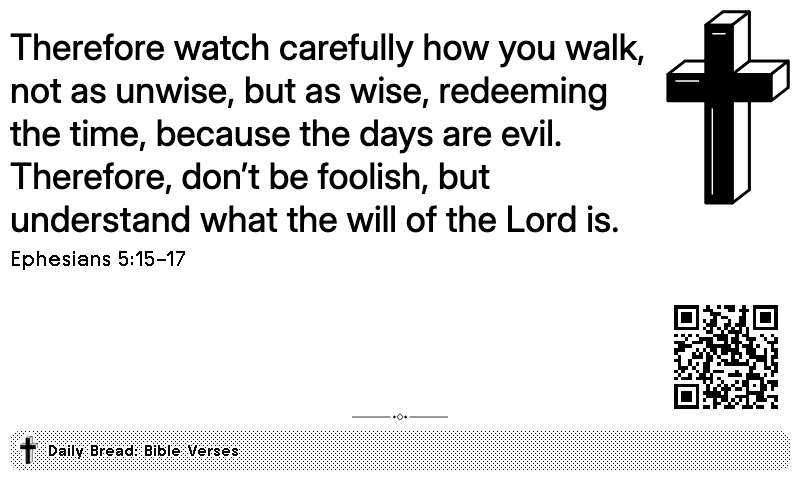
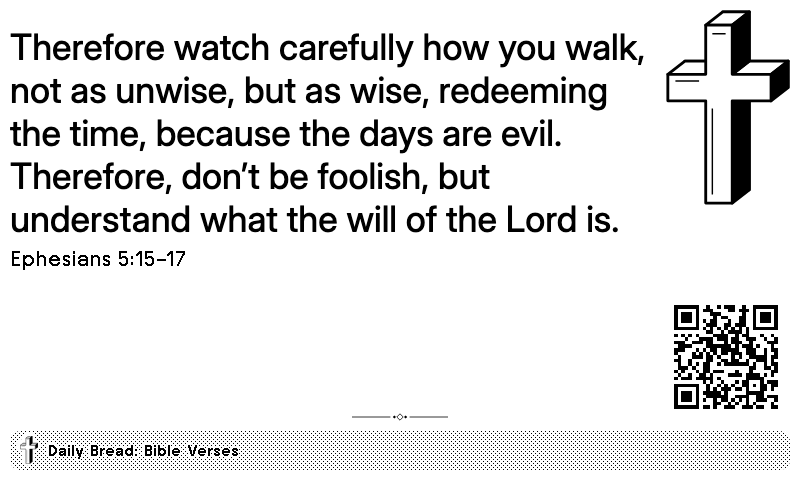
Anchor the Daily Bread QR bottom-right and add dark screenshots
Light keeps the original cross: a white front with black sides. Dark
keeps the white front with outlined black sides. The listing icon
returns to the original artwork.

Half horizontal and quadrant views now pin the chapter QR to the
bottom-right corner, as in the full view. Scripture wraps around it
with a measured, cleared float reservation, capped to the fit budget so
it never shrinks the passage. A reference that would meet the QR moves
into the title bar. This adds one scoped clear rule to the declared
style block; AGENTS.md and the README describe the three-rule exception.

In mashup views the cross and QR now anchor to the content box inside
the layout padding, so they align with the text edge instead of
touching the panel border.

Screenshot entries can set plugin fields. The README adds Dark
appearance captures for all four layouts.

Changed region(s): [[0.8125, 0.0312, 1.0, 0.4375], [0.0312, 0.9062, 0.0625, 0.9688]]

diff --git a/packages/plugin-tools/src/screenshots.js b/packages/plugin-tools/src/screenshots.js
@@ -6,7 +6,8 @@ import { passageSchedule, reviewManifest, reviewScreens } from './review.js';
 // Documentation and listing images are declared in docs/screenshots.json, so
 // a layout change is followed by one regeneration rather than manual captures:
 // [{ "file": "full.png", "passage": "mat-11-28-30", "language": "en",
-//    "screen": "og-landscape-full", "qr": true }]
+//    "screen": "og-landscape-full", "qr": true, "fields": { "appearance": "dark" } }]
+// Optional fields set any other plugin setting for that capture.
 export async function writeScreenshots(plugin) {
   const entries = JSON.parse(await readFile(join(plugin.root, 'docs/screenshots.json'), 'utf8'));
   const screens = new Map(reviewScreens().map(screen => [screen.id, screen]));
@@ -19,7 +20,7 @@ export async function writeScreenshots(plugin) {
     await Promise.all(entries.map(async entry => {
       const screen = screens.get(entry.screen);
       if (!screen) throw new Error(`${entry.file}: unknown screen ${entry.screen}.`);
-      const fields = { ...plugin.defaults, language: entry.language, theme: 'all', rotation: 'daily', show_context_qr: entry.qr ?? true };
+      const fields = { ...plugin.defaults, language: entry.language, theme: 'all', rotation: 'daily', show_context_qr: entry.qr ?? true, ...entry.fields };
       const { options, expected } = passageSchedule(plugin, fields, entry.passage, plugin.data);
       if (expected?.id !== entry.passage) throw new Error(`${entry.file}: passage ${entry.passage} is not in the ${entry.language} collection.`);
       const scenario = { id: `screenshot-${entry.file.replace(/\W+/g, '-')}`, options, expected, recovery: false };

diff --git a/apps/bible-verses/README.md b/apps/bible-verses/README.md
@@ -14,11 +14,11 @@ The [listing icon](assets/icon.png) and its [SVG source](assets/icon.svg), publi
 - **Every theme** by default, interleaved so successive intervals move between themes. Users can choose one or several themes with [TRMNL’s native multi-select](https://help.trmnl.com/en/articles/10513740-custom-plugin-form-builder); leaving it empty keeps the mix.
 - **One translation per language**: English (default) uses the updated, LORD edition of the [World English Bible](https://worldenglish.bible/) (`engwebp`); French uses [Louis Segond 1910](https://ebible.org/bible/details.php?id=fraLSG); Spanish uses [Reina Valera 1909](https://ebible.org/bible/details.php?id=spaRV1909). All three sources are public domain. Each language includes the same 108 curated selections, with localized references, themes and attribution.
 - **Daily** by default; every 12 hours, every 6 hours, or hourly are also available.
-- Full, half horizontal, half vertical, and quadrant layouts. Complete passage text and reference in every layout. The full view wraps Scripture around a larger dimensional cross at the top right. Wide half and quadrant views keep the cross at the top right; left/right halves center it above the verse, as do top/bottom halves in portrait. The cross remains visible with QR enabled or disabled. Text continues beneath the cross in wide halves and quadrants. In full views and portrait quadrants, the chapter QR code sits at the bottom right above the reference bar. Landscape wide halves and quadrants stack it under the cross so the text wraps around both; centered-cross halves put it at the top right. Full views use a 128px QR footprint, centered halves 80–96px, and wide halves and quadrants 64px with a smaller quiet zone, all scaled by the framework. OG cross sizes are restrained, while TRMNL X uses larger artwork.
+- Full, half horizontal, half vertical, and quadrant layouts. Complete passage text and reference in every layout. The full view wraps Scripture around a larger dimensional cross at the top right. Wide half and quadrant views keep the cross at the top right; left/right halves center it above the verse, as do top/bottom halves in portrait. The cross remains visible with QR enabled or disabled. Text continues beneath the cross in wide halves and quadrants. In full, half horizontal and quadrant views, the chapter QR code sits at the bottom right above the reference bar; in wide halves and quadrants, Scripture wraps around it as it does around the cross, and a reference that would meet it moves into the bar. Left/right halves put it at the top right beside the centered cross. Full views use a 128px QR footprint, centered halves 80–96px, and wide halves and quadrants 64px with a smaller quiet zone, all scaled by the framework. OG cross sizes are restrained, while TRMNL X uses larger artwork.
 - Light (default) or Dark appearance. Dark full screens use the framework's screen dark mode; dark mashup layouts use framework `inverse` tokens on Daily Bread's own content, so neighbouring plugins keep their appearance. The cross and ornament artwork swap ink and paper to stay dimensional on black; the chapter QR code keeps a white tile for reliable scanning. Leave the plugin's own dark mode setting off, since it would invert a Dark selection back to light.
 - No hosted backend, Bible API subscription, authentication, or API key.
 
-Passage text dynamically fits the measured reading area using [TRMNL Fit Value](https://trmnl.com/framework/docs/3.4/fit_value). The reference sits under the passage in larger type, with the plugin name in the bottom bar. When the reference would leave the passage smaller than 1.25 times its own size, it moves into the bar instead. Scripture is never truncated. Two small, scoped CSS rules in shared.liquid enable the requested full, wide-half and quadrant cross wrap; other styling uses the framework.
+Passage text dynamically fits the measured reading area using [TRMNL Fit Value](https://trmnl.com/framework/docs/3.4/fit_value). The reference sits under the passage in larger type, with the plugin name in the bottom bar. When the reference would leave the passage smaller than 1.25 times its own size, it moves into the bar instead. Scripture is never truncated. Three small, scoped CSS rules in shared.liquid enable the requested full, wide-half and quadrant wrap around the cross and bottom-right QR; other styling uses the framework.
 
 ## Install on TRMNL
 
@@ -87,6 +87,14 @@ From the root: `pnpm dev`. The preview uses a collapsed checkbox picker for them
 | Half horizontal | Half vertical | Quadrant |
 | --- | --- | --- |
 | ![Half horizontal](docs/screenshots/themes-half_horizontal.png) | ![Half vertical](docs/screenshots/themes-half_vertical.png) | ![Quadrant](docs/screenshots/themes-quadrant.png) |
+
+With **Appearance** set to Dark:
+
+![Full-screen Daily Bread preview in Dark appearance](docs/screenshots/themes-full-dark.png)
+
+| Half horizontal | Half vertical | Quadrant |
+| --- | --- | --- |
+| ![Half horizontal, Dark](docs/screenshots/themes-half_horizontal-dark.png) | ![Half vertical, Dark](docs/screenshots/themes-half_vertical-dark.png) | ![Quadrant, Dark](docs/screenshots/themes-quadrant-dark.png) |
 
 ## Sharing
 

diff --git a/AGENTS.md b/AGENTS.md
@@ -12,7 +12,7 @@ Preserve the existing Formula 1 News app in its other repository. The README can
 
 For Daily Bread, preserve one English translation, curated passages, a mixed-theme daily default, user timezone handling, and the prominent cross. Prioritize other languages if translation support expands. Scripture must match the attributed publisher source; never invent, paraphrase, shorten, or truncate it for layout. Update the editorial list first, then use the explicit importer and review the resulting text.
 
-Use TRMNL framework classes in exported markup. No custom CSS or emojis, except the explicitly requested full-screen, wide-half and quadrant Scripture/cross wrap: two scoped float/flow-root rules in `shared.liquid`, declared in `allowed_style_blocks`. Keep this exception narrow; all typography, spacing and image sizes still use framework classes. The local preview shell may use CSS. Production supplies screen/view wrappers; those belong only in local preview tooling. Verify every changed layout in the browser, including long passages, and inspect for clipping.
+Use TRMNL framework classes in exported markup. No custom CSS or emojis, except the explicitly requested full-screen, wide-half and quadrant Scripture wrap around the top-right cross and the bottom-right QR: three scoped flow-root/float/clear rules in `shared.liquid`, declared in `allowed_style_blocks`. Keep this exception narrow; all typography, spacing and image sizes still use framework classes. The local preview shell may use CSS. Production supplies screen/view wrappers; those belong only in local preview tooling. Verify every changed layout in the browser, including long passages, and inspect for clipping.
 
 Run `pnpm check`, `pnpm test`, and `pnpm build` for changes affecting plugin behavior or packaging. `dist/`, local framework caches, and dependencies are generated and ignored. Do not commit secrets, account IDs, or API keys. Ask before publishing a recipe, uploading to an account, or sending messages. Reversible workspace work is authorized; avoid destructive commands.
 
